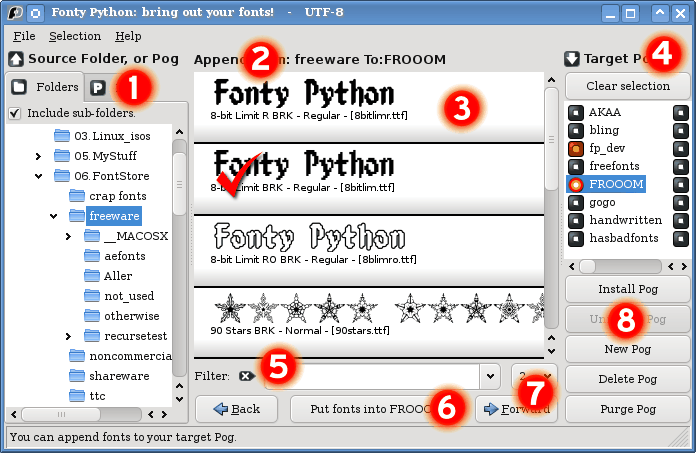
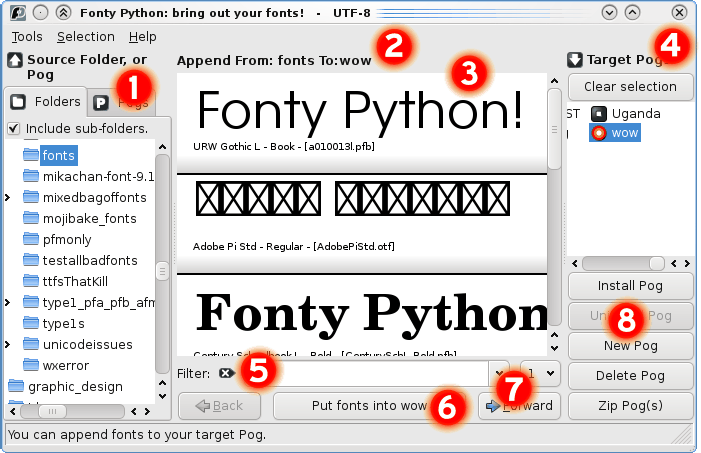
16 Sept 1. Removed irritating message dialogs from zip function. 2. Removed pofiles directory from MANIFEST.in so they do not go into the tarball 3. Changed File menu to Tools menu. 4. Added error catch and report to zip. 5. Improved directory dialogue for zip. 6. Fixed help file and image.

diff --git a/fontypythonmodules/help/en/help.html b/fontypythonmodules/help/en/help.html
@@ -3,7 +3,7 @@
 <table cellpadding="5">
 <TR><TD valign="middle">
 <img src="../common/fphelplogo.png"><BR>
-<font color="#768b94"><h1>Fonty Python Help</h1>Updated June 2009</font>
+<font color="#768b94"><h1>Fonty Python Help</h1>Updated September 2009</font>
 </TD></TR>
 <tr><TD>
 		<p><i>FontyPython is a font viewer and manager for Gnu/Linux. Use it to view, gather and manage fonts. You can install and uninstall fonts to your home fonts folder for temporary use in other apps.</i></p>
@@ -18,7 +18,8 @@
 		<h1>Home dot fonts</h1>
 		<p>In your home directory there is a hidden directory named ".fonts". The dot makes it hidden. In there you will find font files of various kinds. Whatever is listed in that directory is a font that your system can use. It's not as simple as this because on GNU/Linux there are other places where fonts are also installed, but it's a handy place to work. You should never need to go into this directory so there's no reason to worry about it.</p>
 		<h1>Latest News</h1>
-		<ol>
+		<ol>	
+			<li>(Sept 2009) You can now zip pog(s). This puts all those fonts into a zip file for convenience. You can then send them with a project.</li>
 			<li>(June 2009) There is an "Include sub-folders" check box now. See also the command-line option "-A"</li>
 			<li>(June 2009) New keyboard shortcuts. Ctrl+LeftArrow and Ctrl+RightArrow will step through your fonts.</li>
 			<li>(June 2009) Multiple Pog selection. Remove, Install or Uninstall many Pogs at once.</li>
@@ -93,11 +94,13 @@ This is the main <i>action</i> button. It will change it's functionality as you 
 </td></tr>
 <tr><TD valign="top">
 <IMG src="../common/fp7.png.cr.png" align="left" border="0"></TD><td><br>
-These controls allow you to navigate between "pages" of fonts. You can also choose any page from the pull-down. Please go to File->Settings (or hit Ctrl+S -- for English locales) where you can change the number of fonts in a page. <i>I use the paged approach to reduce the memory demands of the app.</i>
+These controls allow you to navigate between "pages" of fonts. You can also choose any page from the pull-down. Please go to Tools->Settings (or hit Ctrl+S -- for English locales) where you can change the number of fonts in a page. <i>I use the paged approach to reduce the memory demands of the app.</i>
 </td></tr>
 <tr><TD valign="top">
 <IMG src="../common/fp8.png.cr.png" align="left" border="0"></td><td><br>
 The buttons in this section all act upon the currently selected <strong>target</strong> Pog. You can variously delete, install and uninstall the selected Pog. You can also create new Pogs from here.
+<br>
+You can also <strong>zip</strong> the fonts within the selected pog(s) up. You get to choose the directory and then the zip files are named after the pogs.
 <br>
 <strong>Multiple selection</strong> is now available. You can delete or Install or Uninstall many Pogs at once.
 </td></tr>
@@ -105,7 +108,7 @@ The buttons in this section all act upon the currently selected <strong>target</
 <hr>
 <h1>Menu items</h1>
 <ol>
-	<li><strong>File</strong>
+	<li><strong>Tools</strong>
 	<ol>
 		<li><u>Settings</u>: Access the settings for the font view. Same as Ctrl+S or middle-click.</li>
 		<li><u>Check Fonts</u>: Choose a folder and scan for bad fonts which are then noted to prevent crashing Fonty in the future. Use this if your head is tired of the wall/desktop.</li>
@@ -168,7 +171,7 @@ You should see a list of locales. If you see one ending in utf8 that looks like 
 <h1>Fonty bugs</h1>
 <ol>
    <li><strong>Fatal crashes and Dangerous Fonts:</strong> Some fonts stick in Fonty's throat and crash her. If you wait a moment, a window should appear and tell you which font is to blame. You should <em>move</em> that font <em>entirely</em> away from where it is. Start Fonty again to resume. If you are stuck, go into your .fontypython folder and open the file named 'lastFontBeforeSegfault', that will be the culprit!</li>
-   <li><strong>Check Fonts:</strong> I've added a new tool to the File menu that will let you choose a folder (and it will go through all the sub-folders too) of fonts for checking. Any fonts that are likely to kill Fonty will be recorded in your ~/.fontypython folder in a file named 'segfonts'. After you do this, you can visit those folders in Fonty and it will display those fonts in yellow. <strong>If you find that Fonty is crashing too often</strong>, then use this tool!<br>There is also a command-line to the same tool:<pre>fontypython -c /some/folder</pre>Please check the command-line help.</li>
+   <li><strong>Check Fonts:</strong> I've added a new tool to the Tools menu that will let you choose a folder (and it will go through all the sub-folders too) of fonts for checking. Any fonts that are likely to kill Fonty will be recorded in your ~/.fontypython folder in a file named 'segfonts'. After you do this, you can visit those folders in Fonty and it will display those fonts in yellow. <strong>If you find that Fonty is crashing too often</strong>, then use this tool!<br>There is also a command-line to the same tool:<pre>fontypython -c /some/folder</pre>Please check the command-line help.</li>
    <li>If you get errors, email them to the list (fontypython@googlegroups.com). This is easier to do when you run Fonty from the command line because you can copy what's displayed.</li>
    <li>When Fonty starts-up it checks your Pog files (in your home folder under .fontypython). If there are any pogs that cannot be read for whatever reason, then they are renamed to .badpog. You should go in there and do some sleuthing.</li>
    <li>As Fonty reads font files here and there, it keeps a list of the fonts it could not open. It's in the .fontypython folder. Open "badfiles" in a text editor if you want to see them.</li>
@@ -176,7 +179,7 @@ You should see a list of locales. If you see one ending in utf8 that looks like 
 </li>
  </ol>
 <hr>
-<p>Fonty Python is Copyright (C) 2006, 2007, 2008 Donn.C.Ingle.</p>
+<p>Fonty Python is Copyright (C) 2006, 2007, 2008, 2009 Donn.C.Ingle.</p>
 <p>This file is part of Fonty Python.<br>
 Fonty Python is free software: you can redistribute it and/or modify<br>
 it under the terms of the GNU General Public License as published by<br>

diff --git a/fontypythonmodules/gui_Right.py b/fontypythonmodules/gui_Right.py
@@ -30,6 +30,8 @@ import fpsys # Global objects
 import fontyfilter
 import fontybugs
 
+## Fetch the dialogue classes - used for zip dir dialog.
+import dialogues
 
 class TargetPogChooser(wx.Panel):
 	"""
@@ -270,12 +272,7 @@ class TargetPogChooser(wx.Panel):
 
 		## Sep 2009 : ZIP POGS 
 		if e.GetId() == self.idzip: 
-			dlg = wx.DirDialog(self, _("Choose a directory where the zip file(s) will be saved:"), 
-					style=wx.DD_DEFAULT_STYLE
-					| wx.DD_DIR_MUST_EXIST
-					| wx.DD_CHANGE_DIR
-					| wx.DD_NEW_DIR_BUTTON	
-					)
+			dlg = dialogues.LocateDirectory( self )
 			ok=False
 			if dlg.ShowModal() == wx.ID_OK:
 				todir=dlg.GetPath()
@@ -286,11 +283,14 @@ class TargetPogChooser(wx.Panel):
 				
 				for p in multipogs:
 					ipog = fontcontrol.Pog(p)
-					ipog.zip( todir )
+					bugs=ipog.zip( todir )
 
 				wx.EndBusyCursor()	
-				ps.pub(print_to_status_bar,_("Zip file(s) have been created.") )
-
+				extra=""
+				if bugs: extra=_("Some fonts were skipped, try purging the pog(s) involved.")
+				ps.pub(print_to_status_bar,_("Zip file(s) have been created.%s") % extra )
+			else:
+				ps.pub(print_to_status_bar,_("Zip cancelled."))
 
 
 	def OnPogTargetClick(self, args):

diff --git a/fontypythonmodules/dialogues.py b/fontypythonmodules/dialogues.py
@@ -284,6 +284,36 @@ class SegfaultDialog(wx.Dialog):
 		box.Fit(self)
 		self.Layout()
 		
+class LocateDirectory(wx.Dialog):
+	"""
+	Sep 2009 : A nicer (than std dir dialogue) dialogue for locating a directory.
+	It starts in the cwd.
+	"""
+	def __init__(self, parent):
+		wx.Dialog.__init__(self, parent, -1, title = _("Locate a directory for the zip file(s)."),
+				pos=wx.DefaultPosition,style=wx.DEFAULT_FRAME_STYLE)
+
+		sizer = wx.BoxSizer(wx.VERTICAL)
+		self.treedir = wx.GenericDirCtrl( self, -1, dir=os.getcwd(), style=wx.DIRCTRL_DIR_ONLY )
+
+		btno = wx.Button(self, wx.ID_OK)
+		btnc = wx.Button(self, wx.ID_CANCEL)
+
+		sizer.Add(self.treedir, 1, wx.EXPAND)
+		sizer.Add(btno, 0, wx.EXPAND)
+		sizer.Add(btnc, 0, wx.EXPAND)
+
+		btnsizer = wx.StdDialogButtonSizer()
+		btno.SetDefault()
+		btnsizer.AddButton(btno)
+		btnsizer.AddButton(btnc)
+		btnsizer.Realize()
+
+		self.SetSizer(sizer)
+		self.SetAutoLayout(True)
+
+	def GetPath(self):
+		return self.treedir.GetPath()
 
 class DialogCheckFonts( wx.Dialog ):
 	"""

diff --git a/fontypythonmodules/fontcontrol.py b/fontypythonmodules/fontcontrol.py
@@ -924,13 +924,19 @@ class Pog(BasicFontList):
 		file = zipfile.ZipFile(os.path.join(todir,self.name + ".zip"), "w")
 		self.genList() # I forget how to handle errors raised in that labyrinth... sorry world :(
 		#print "ZIP:",ipog.name
+		bugs=False
 		for fi in self:	
 			## zipfiles have no internal encoding, so I must encode from unicode to a byte string
 			if type(fi.glyphpaf) is unicode:
 				arcfile = os.path.basename(fi.glyphpaf).encode(locale.getpreferredencoding(),"replace")
 			else:
 				arcfile= os.path.basename(fi.glyphpaf)
-
-			file.write(fi.glyphpaf, arcfile, zcompress) #var set global at start of this module.
+			try:
+				file.write(fi.glyphpaf, arcfile, zcompress) #var set global at start of this module.
+			except OSError,e:
+				bugs=True
+				# e.errno == 2: # 2 is No such file or directory
+				print e # whatever is wrong, print the message and continue
 
 		file.close()		
+		return bugs # a flag for later.

diff --git a/fontypythonmodules/wxgui.py b/fontypythonmodules/wxgui.py
@@ -88,7 +88,7 @@ class MainFrame(wx.Frame):
 		## Prepare the menu bar
 		self.menuBar = wx.MenuBar()
 
-		## FILE MENU
+		## FILE MENU : Changed to "Tools" menu Sep 2009
 		menu1 = wx.Menu()
 		menu1.Append(101, _("&Settings\tCtrl+S"), _("Change settings"))
 		menu1.AppendSeparator()
@@ -100,7 +100,7 @@ class MainFrame(wx.Frame):
 
 		self.exit = menu1.Append(104, _("&Exit"), _("Close the app"))
 		## Add menu to the menu bar
-		self.menuBar.Append(menu1, _("&File"))
+		self.menuBar.Append(menu1, _("&Tools"))
 
 
 		## SELECT MENU: June 2009
